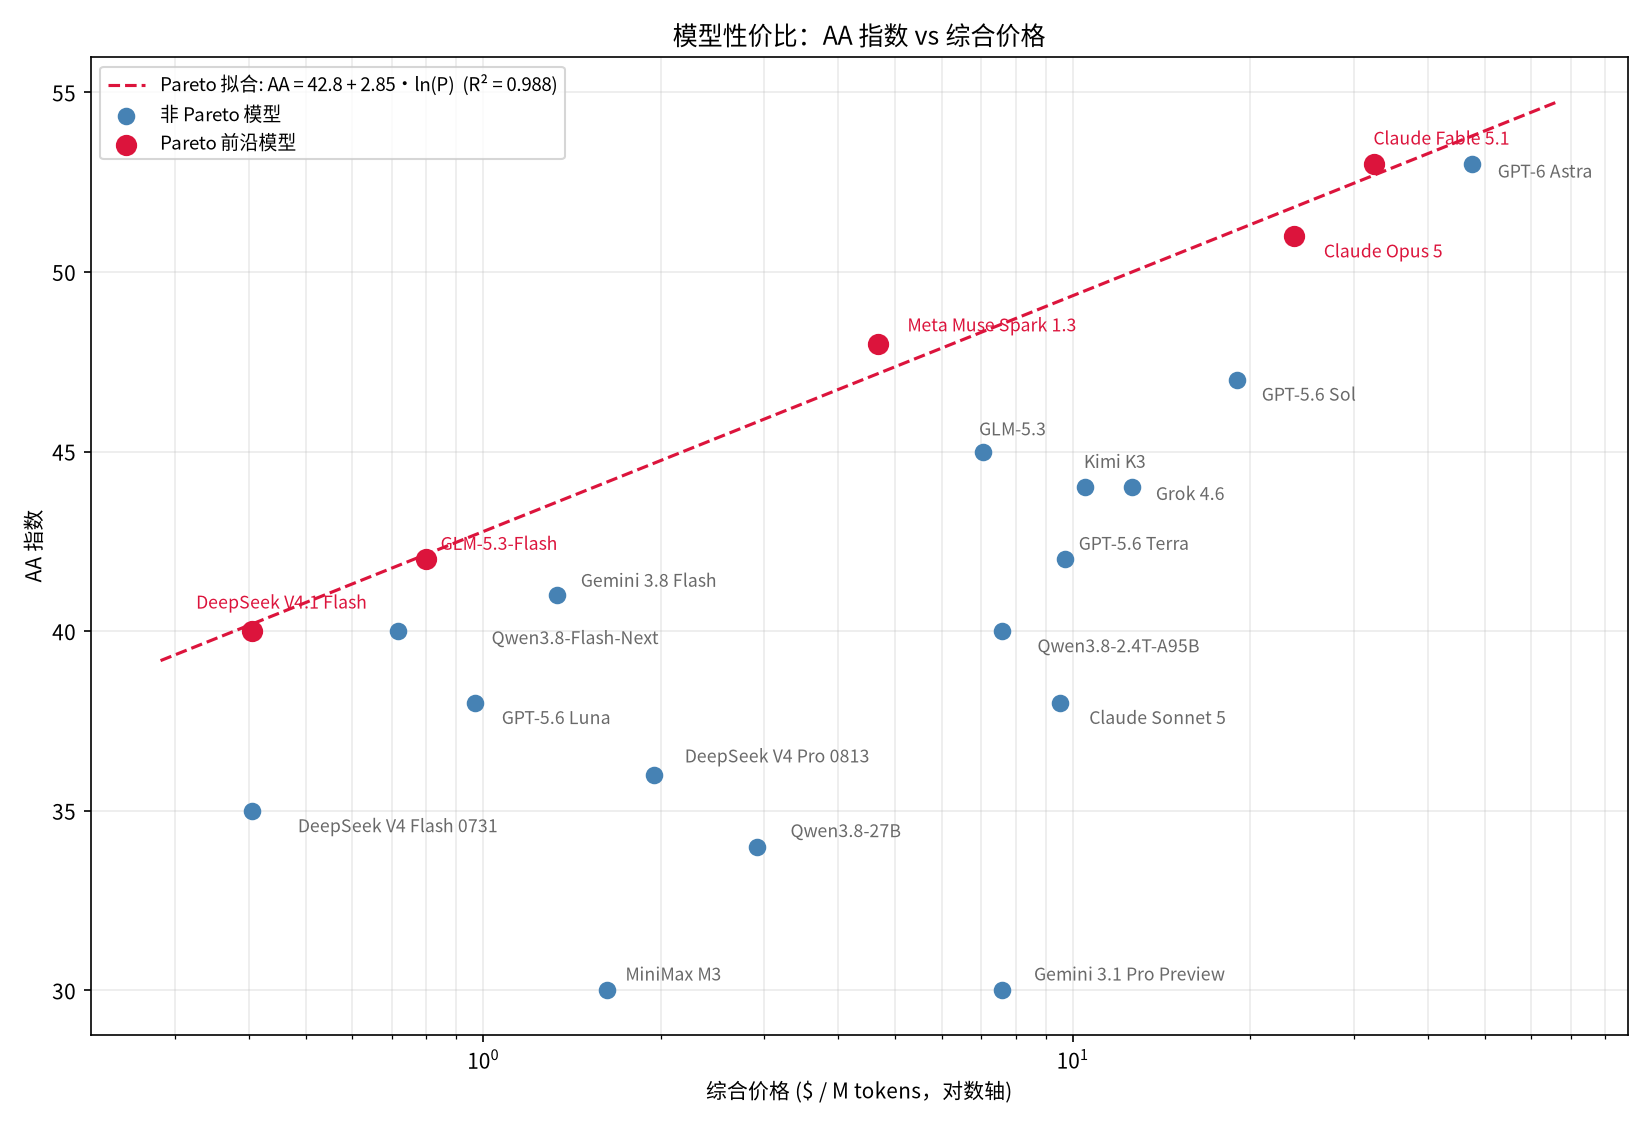
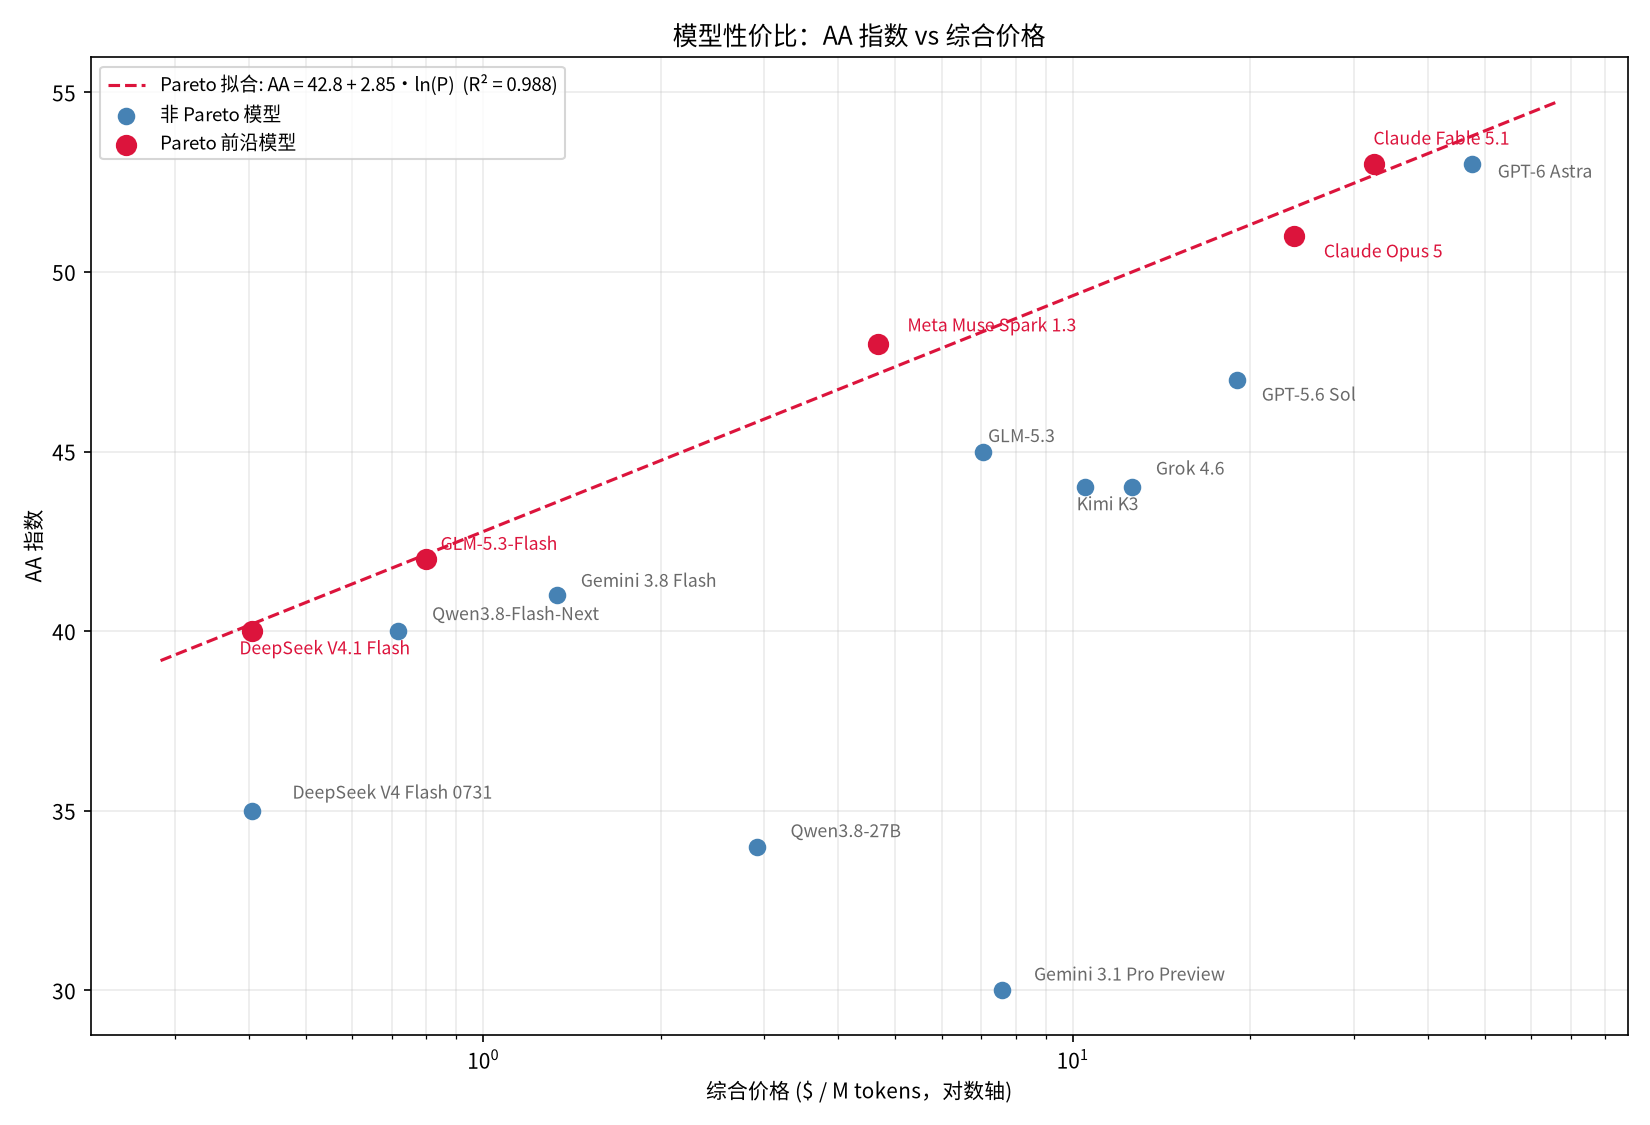
Remove outdated models and refine model classification wording

diff --git a/comparison/plot_price_vs_aa.py b/comparison/plot_price_vs_aa.py
@@ -11,11 +11,8 @@ plt.rcParams["axes.unicode_minus"] = False
 data = {
     "GPT-6 Astra": (47.5, 53),
     "GPT-5.6 Sol": (19, 47),
-    "GPT-5.6 Terra": (9.7, 42),
-    "GPT-5.6 Luna": (0.97, 38),
     "Claude Fable 5.1": (32.5, 53),
     "Claude Opus 5": (23.75, 51),
-    "Claude Sonnet 5": (9.5, 38),
     "Gemini 3.1 Pro Preview": (7.575, 30),
     "Gemini 3.8 Flash": (1.33333, 41),
     "Grok 4.6": (12.6, 44),
@@ -23,11 +20,8 @@ data = {
     "Kimi K3": (10.5, 44),
     "GLM-5.3": (7.04, 45),
     "GLM-5.3-Flash": (0.8, 42),
-    "DeepSeek V4 Pro 0813": (1.947, 36),
     "DeepSeek V4 Flash 0731": (0.405, 35),
     "DeepSeek V4.1 Flash": (0.405, 40),
-    "MiniMax M3": (1.62, 30),
-    "Qwen3.8-2.4T-A95B": (7.6, 40),
     "Qwen3.8-Flash-Next": (0.717, 40),
     "Qwen3.8-27B": (2.91125, 34),
 }

diff --git a/comparison/README.md b/comparison/README.md
@@ -6,13 +6,15 @@
 2. 开源最强大模型
 3. 公司可离线部署
 4. 个人低成本独立部署
-5. 闭源可执行任务廉价模型
+5. 可执行任务廉价模型
 
 其中：
 
+- 闭源最强大模型。顶尖两个：GPT-6 Astra、Claude Fable 5.1。
+- 开源最强大模型。两个：Kimi K3和GLM-5.3。
 - 公司离线部署的线，划定在了256G统一内存上。Q4量化的话，参数量大约在300-400B以下。同时，激活参数量最好在20B以下。基本只有GLM-5.3-Flash、Qwen3.8-Flash-Next和DeepSeek V4 Flash 0731。
 - 个人低成本部署的线，划定在了32G统一内存上。Q4量化的话，参数量大约在40-50B以下。基本只有Qwen3.8-27B。
-- 闭源可执行任务廉价模型，划定在了 API 输入价格低于 $0.5/百万 tokens、具备 agent 或工具执行能力，并且未归入公司或个人离线部署类别的闭源模型。当前共有2个：GPT-5.6 Luna和Gemini 3.8 Flash。上面两类列出的模型，显然也能满足廉价可执行任务要求。只不过不重复计算，因此不列入。
+- 可执行任务廉价模型，划定在 API 综合价格低于 $1.5/百万 tokens、具备 agent 或工具执行能力、且未归入上述任何类别的模型。当前共2个：Gemini 3.8 Flash和DeepSeek V4.1 Flash。
 
 # 固有参数
 
@@ -20,11 +22,8 @@
 |---|---:|---:|---:|---:|---:|---:|---|
 | [GPT-6 Astra](https://developers.openai.com/api/docs/models/gpt-6-astra) | 2026-09-03 | 闭 | -- | -- | V | 1M | -- |
 | [GPT-5.6 Sol](https://developers.openai.com/api/docs/models/gpt-5.6-sol) | 2026-07-09 | 闭 | -- | -- | V | 1M | -- |
-| [GPT-5.6 Terra](https://developers.openai.com/api/docs/models/gpt-5.6-terra) | 2026-07-09 | 闭 | -- | -- | V | 1M | -- |
-| [GPT-5.6 Luna](https://developers.openai.com/api/docs/models/gpt-5.6-luna) | 2026-07-09 | 闭 | -- | -- | V | 1M | -- |
 | [Claude Fable 5.1](https://www.anthropic.com/claude-fable-and-mythos-5-1) | 2026-09-01 | 闭 | -- | -- | V | 1M | -- |
 | [Claude Opus 5](https://www.anthropic.com/news/claude-opus-5) | 2026-07-24 | 闭 | -- | -- | V | 1M | -- |
-| [Claude Sonnet 5](https://www.anthropic.com/news/claude-sonnet-5) | 2026-06-30 | 闭 | -- | -- | V | 1M | -- |
 | [Gemini 3.1 Pro Preview](https://ai.google.dev/gemini-api/docs/models/gemini-3.1-pro-preview) | 2026-02-19 | 闭 | -- | -- | V/A | 1M | -- |
 | [Gemini 3.8 Flash](https://ai.google.dev/gemini-api/docs/models/gemini-3.8-flash) | 2026-09-02 | 闭 | -- | -- | V/A | 1M | -- |
 | [Grok 4.6](https://docs.x.ai/developers/models/grok-4.6) | 2026-08-12 | 闭 | -- | -- | V | 500k | -- |
@@ -32,18 +31,14 @@
 | [Kimi K3](https://www.kimi.com/blog/kimi-k3) | 2026-07-16 | 开 | 2.8T | 104B | V | 1M | [权重](https://huggingface.co/moonshotai/Kimi-K3) · [GGUF](https://huggingface.co/unsloth/Kimi-K3-GGUF) |
 | [GLM-5.3](https://z.ai/blog/glm-5.3) | 2026-08-14 | 开 | 744B | 40B | -- | 1M | [权重](https://huggingface.co/zai-org/GLM-5.3) · [GGUF](https://huggingface.co/unsloth/GLM-5.3-GGUF) |
 | [GLM-5.3-Flash](https://z.ai/blog/glm-5.3-flash) | 2026-08-26 | 开 | 320B | 18B | V | 1M | [权重](https://huggingface.co/zai-org/GLM-5.3-Flash) · [GGUF](https://huggingface.co/unsloth/GLM-5.3-Flash-GGUF) |
-| [DeepSeek V4 Pro 0813](https://huggingface.co/deepseek-ai/DeepSeek-V4-Pro-0813) | 2026-08-13 | 开 | 1.6T | 49B | -- | 1M | [权重](https://huggingface.co/deepseek-ai/DeepSeek-V4-Pro-0813) · [GGUF](https://huggingface.co/unsloth/DeepSeek-V4-Pro-0813-GGUF) |
 | [DeepSeek V4 Flash 0731](https://huggingface.co/deepseek-ai/DeepSeek-V4-Flash-0731) | 2026-07-31 | 开 | 284B | 13B | -- | 1M | [权重](https://huggingface.co/deepseek-ai/DeepSeek-V4-Flash-0731) · [GGUF](https://huggingface.co/unsloth/DeepSeek-V4-Flash-0731-GGUF) |
 | [DeepSeek V4.1 Flash](https://huggingface.co/deepseek-ai/DeepSeek-V4.1-Flash) | 2026-09-10 | 开 | 552B/763B | 8B/16B | V | 1M | [权重](https://huggingface.co/deepseek-ai/DeepSeek-V4.1-Flash) |
-| [MiniMax M3](https://huggingface.co/MiniMaxAI/MiniMax-M3) | 2026-06-02 | 开 | 428B | 23B | V | 1M | [权重](https://huggingface.co/MiniMaxAI/MiniMax-M3) · [GGUF](https://huggingface.co/unsloth/MiniMax-M3-GGUF) |
-| [Qwen3.8-2.4T-A95B](https://qwen.ai/blog?id=qwen3.8) | 2026-08-12 | 开 | 2.4T | 95B | -- | 262k | [权重](https://huggingface.co/Qwen/Qwen3.8-2.4T-A95B) · [GGUF](https://huggingface.co/unsloth/Qwen3.8-2.4T-A95B-GGUF) |
 | [Qwen3.8-Flash-Next](https://qwen.ai/blog?id=qwen3.8-flash-next) | 2026-08-26 | 开 | 180B | 6B | V | 262k | [权重](https://huggingface.co/Qwen/Qwen3.8-Flash-Next) · [GGUF](https://huggingface.co/unsloth/Qwen3.8-Flash-Next-GGUF) |
 | [Qwen3.8-27B](https://qwen.ai/blog?id=qwen3.8) | 2026-08-14 | 开 | 27B | 27B | V | 262k | [权重](https://huggingface.co/Qwen/Qwen3.8-27B) · [GGUF](https://huggingface.co/unsloth/Qwen3.8-27B-GGUF) |
 
 - 多模态列仅记录非文本输入：`V` 表示视觉（图像或视频），`A` 表示音频，`--` 表示仅支持文本输入。
 - Claude Mythos 5.1 与 Claude Fable 5.1 使用同一底层模型，仅安全策略和访问范围不同；Mythos 5.1 仅通过受信任访问计划提供，因此不在表中重复计入。
 - 我们目前无法百分百确认 Qwen3.8-Flash 的底层就是 Qwen3.8-Flash-Next，但是目前有很强证据证明二者是一回事。因此表格内采用 Qwen3.8-Flash-Next 的名字和固有参数、Qwen3.8-Flash 的价格，以及 Qwen3.8-Flash-Next 的 Benchmark 分数，并将其列为开源模型。
-- 同样，我们无法百分百的确定 Qwen3.8-Max 的底层就是 Qwen3.8-2.4T-A95B，但是同样有很强的证据表明两者是一回事。
 - DeepSeek V4.1 Flash 的 552B 为 backbone 参数量，激活参数为 prefill 8B / decode 16B（因果编码器-解码器架构）；另含 196B Engram 条件记忆与视觉编码器，权重合计 763B。
 
 # API 价格
@@ -52,11 +47,8 @@
 |---|---:|---:|---:|---:|---:|---:|
 | GPT-6 Astra | \$10 | \$50 | \$1 | \$12.5 | \$47.5 | 96.8% |
 | GPT-5.6 Sol | \$4 | \$20 | \$0.4 | \$5 | \$19 | 90.3% |
-| GPT-5.6 Terra | \$2 | \$12 | \$0.2 | \$2.5 | \$9.7 | 83.8% |
-| GPT-5.6 Luna | \$0.2 | \$1.2 | \$0.02 | \$0.25 | \$0.97 | 87.5% |
 | Claude Fable 5.1 | \$10 | \$50 | \$0.25 | \$12.5 | \$32.5 | **98.8%** |
 | Claude Opus 5 | \$5 | \$25 | \$0.5 | \$6.25 | \$23.75 | **96.7%** |
-| Claude Sonnet 5 | \$2 | \$10 | \$0.2 | \$2.5 | \$9.5 | 75.9% |
 | Gemini 3.1 Pro Preview | \$2 | \$12 | \$0.2 | \$0.375 | \$7.575 | 60.7% |
 | Gemini 3.8 Flash | \$0.375 | \$1.875 | \$0.0375 | \$0.020833 | \$1.33333 | 92.4% |
 | Grok 4.6 | \$2 | \$6 | \$0.5 | -- | \$12.6 | 86.5% |
@@ -64,11 +56,8 @@
 | Kimi K3 | \$3 | \$15 | \$0.3 | -- | \$10.5 | 87.4% |
 | GLM-5.3 | \$1.4 | \$4.4 | \$0.26 | -- | \$7.04 | 91.5% |
 | GLM-5.3-Flash | \$0.15 | \$0.5 | \$0.03 | -- | \$0.8 | **98.0%** |
-| DeepSeek V4 Pro 0813 | \$1.32 / \$0.66 | \$3.96 / \$1.98 | \$0.044 / \$0.022 | -- | \$1.947 | 79.2% |
 | DeepSeek V4 Flash 0731 | \$0.30 / \$0.15 | \$1.20 / \$0.60 | \$0.006 / \$0.003 | -- | \$0.405 | 85.6% |
 | DeepSeek V4.1 Flash | \$0.30 / \$0.15 | \$1.20 / \$0.60 | \$0.006 / \$0.003 | -- | \$0.405 | **97.8%** |
-| MiniMax M3 | \$0.3 | \$1.2 | \$0.06 | -- | \$1.62 | 66.8% |
-| Qwen3.8-2.4T-A95B | \$2 | \$6 | \$0.25 | -- | \$7.6 | 81.0% |
 | Qwen3.8-Flash-Next | \$0.15 | \$0.47 | \$0.016 | \$0.2 | \$0.717 | 94.0% |
 | Qwen3.8-27B | \$0.425 | \$2.55 | \$0.085 | \$0.53125 | \$2.91125 | 72.9% |
 
@@ -99,11 +88,8 @@
 |---|---:|---:|---:|---:|---:|---:|---:|
 | GPT-6 Astra | -- | 54.1% | 88.4% | 41.4% | 54.7% | 31.7% | 53 |
 | GPT-5.6 Sol | 64.6% | -- | 88.0% | 44.3% | 49.5% | 32.3% | 47 |
-| GPT-5.6 Terra | 63.4% | -- | 88.0% | 40.2% | 42.9% | 30.0% | 42 |
-| GPT-5.6 Luna | 62.7% | -- | 80.9% | 31.1% | 39.5% | 20.6% | 38 |
 | Claude Fable 5.1 (with fallback) | -- | 62.0% | 91.4% | -- | 59.1% | 29.7% | 53 |
 | Claude Opus 5 | -- | 55.7% | 89.1% | -- | 54.9% | 29.1% | 51 |
-| Claude Sonnet 5 | 63.2% | -- | -- | -- | -- | -- | 38 |
 | Gemini 3.1 Pro Preview | 54.2% | 58.9% | 73.8% | 21.4% | 47.0% | 17.7% | 30 |
 | Gemini 3.8 Flash | -- | 56.6% | 87.6% | -- | 47.8% | 18.3% | 41 |
 | Grok 4.6 | -- | 53.6% | 88.4% | 50.7% | 42.9% | -- | 44 |
@@ -111,11 +97,8 @@
 | Kimi K3 | -- | 59.5% | 85.0% | 46.0% | 46.9% | 23.4% | 44 |
 | GLM-5.3 | -- | 59.0% | 83.9% | 50.3% | 42.3% | 19.1% | 45 |
 | GLM-5.3-Flash | -- | 51.6% | 84.3% | 47.2% | 39.9% | -- | 42 |
-| DeepSeek V4 Pro 0813 | -- | 51.0% | 87.9% | 39.6% | 41.0% | 18.0% | 36 |
 | DeepSeek V4 Flash 0731 | -- | 50.3% | 82.7% | -- | 38.6% | 16.6% | 35 |
 | DeepSeek V4.1 Flash | -- | 51.9% | 90.6% | -- | 36.8% | 14.3% | 40 |
-| MiniMax M3 | 59.0% | -- | 66.0% | 15.3% | 39.0% | 3.7% | 30 |
-| Qwen3.8-2.4T-A95B | 67.7% | -- | -- | -- | -- | -- | 40 |
 | Qwen3.8-Flash-Next | 62.5% | 50.6% | -- | -- | 38.0% | 11.1% | 40 |
 | Qwen3.8-27B | 61.7% | 46.6% | 73.0% | 48.0% | 33.9% | 5.4% | 34 |
 
